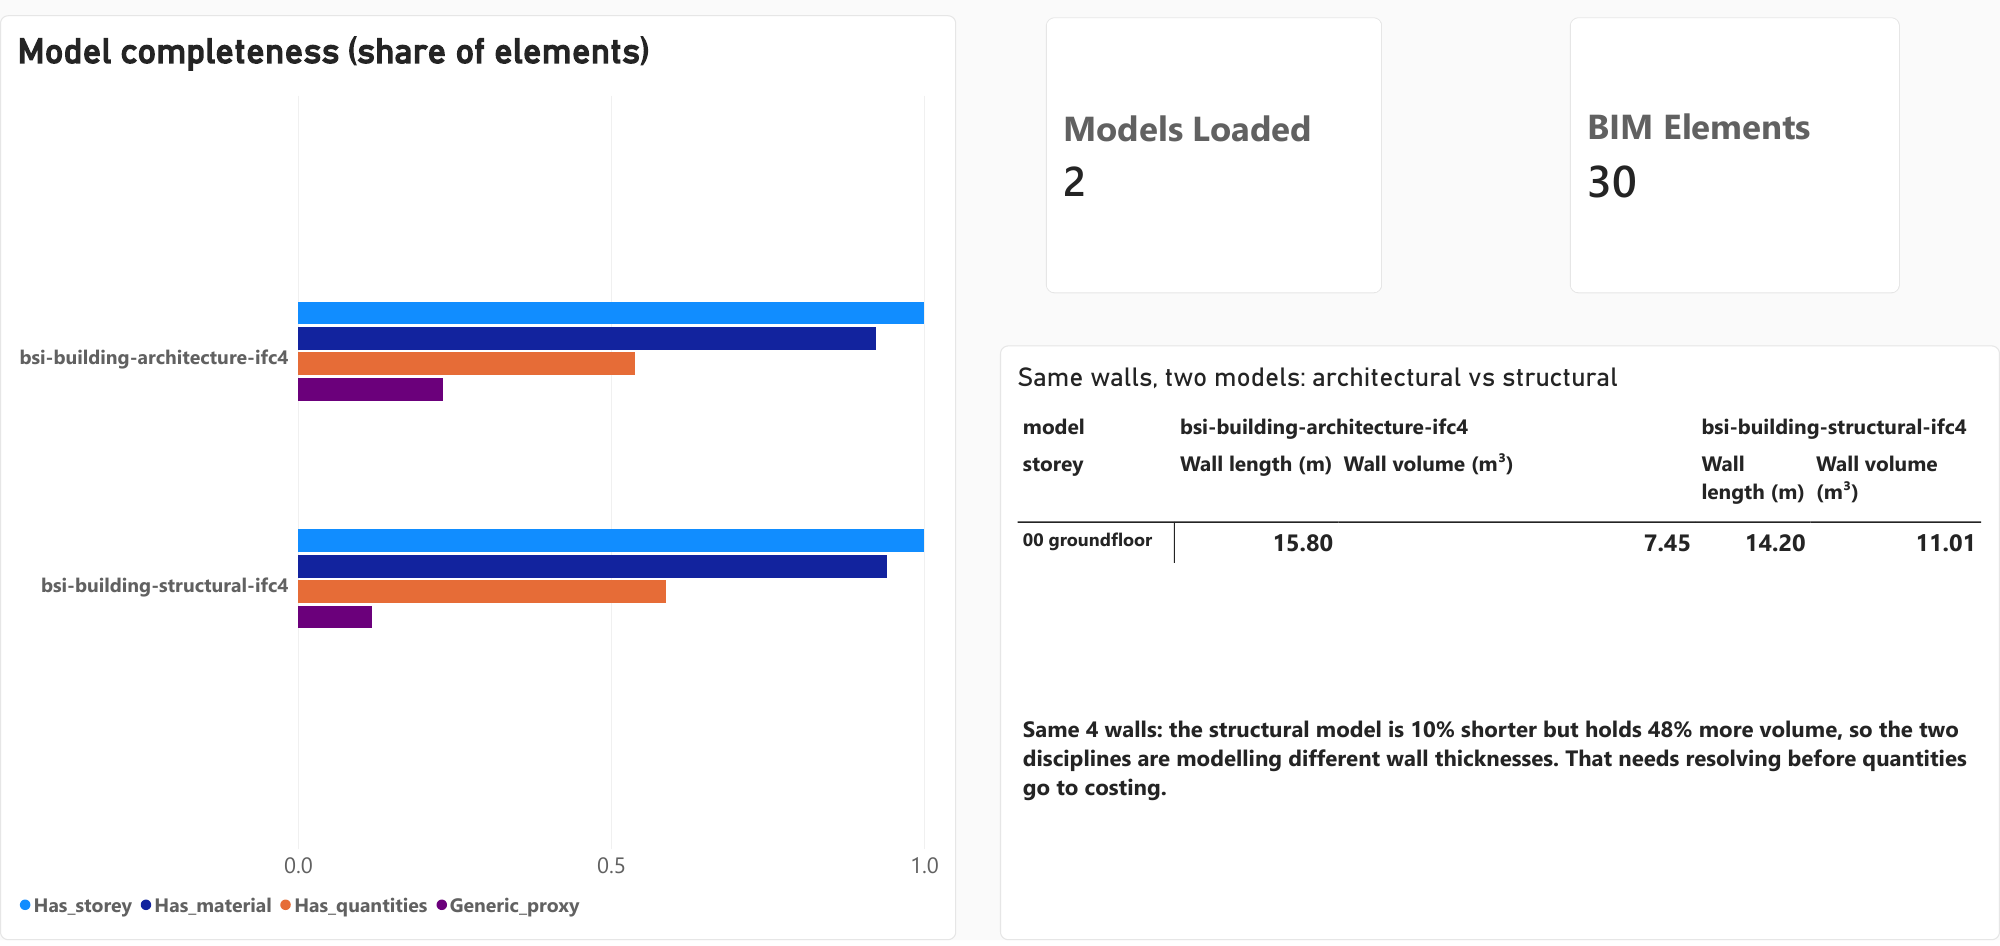
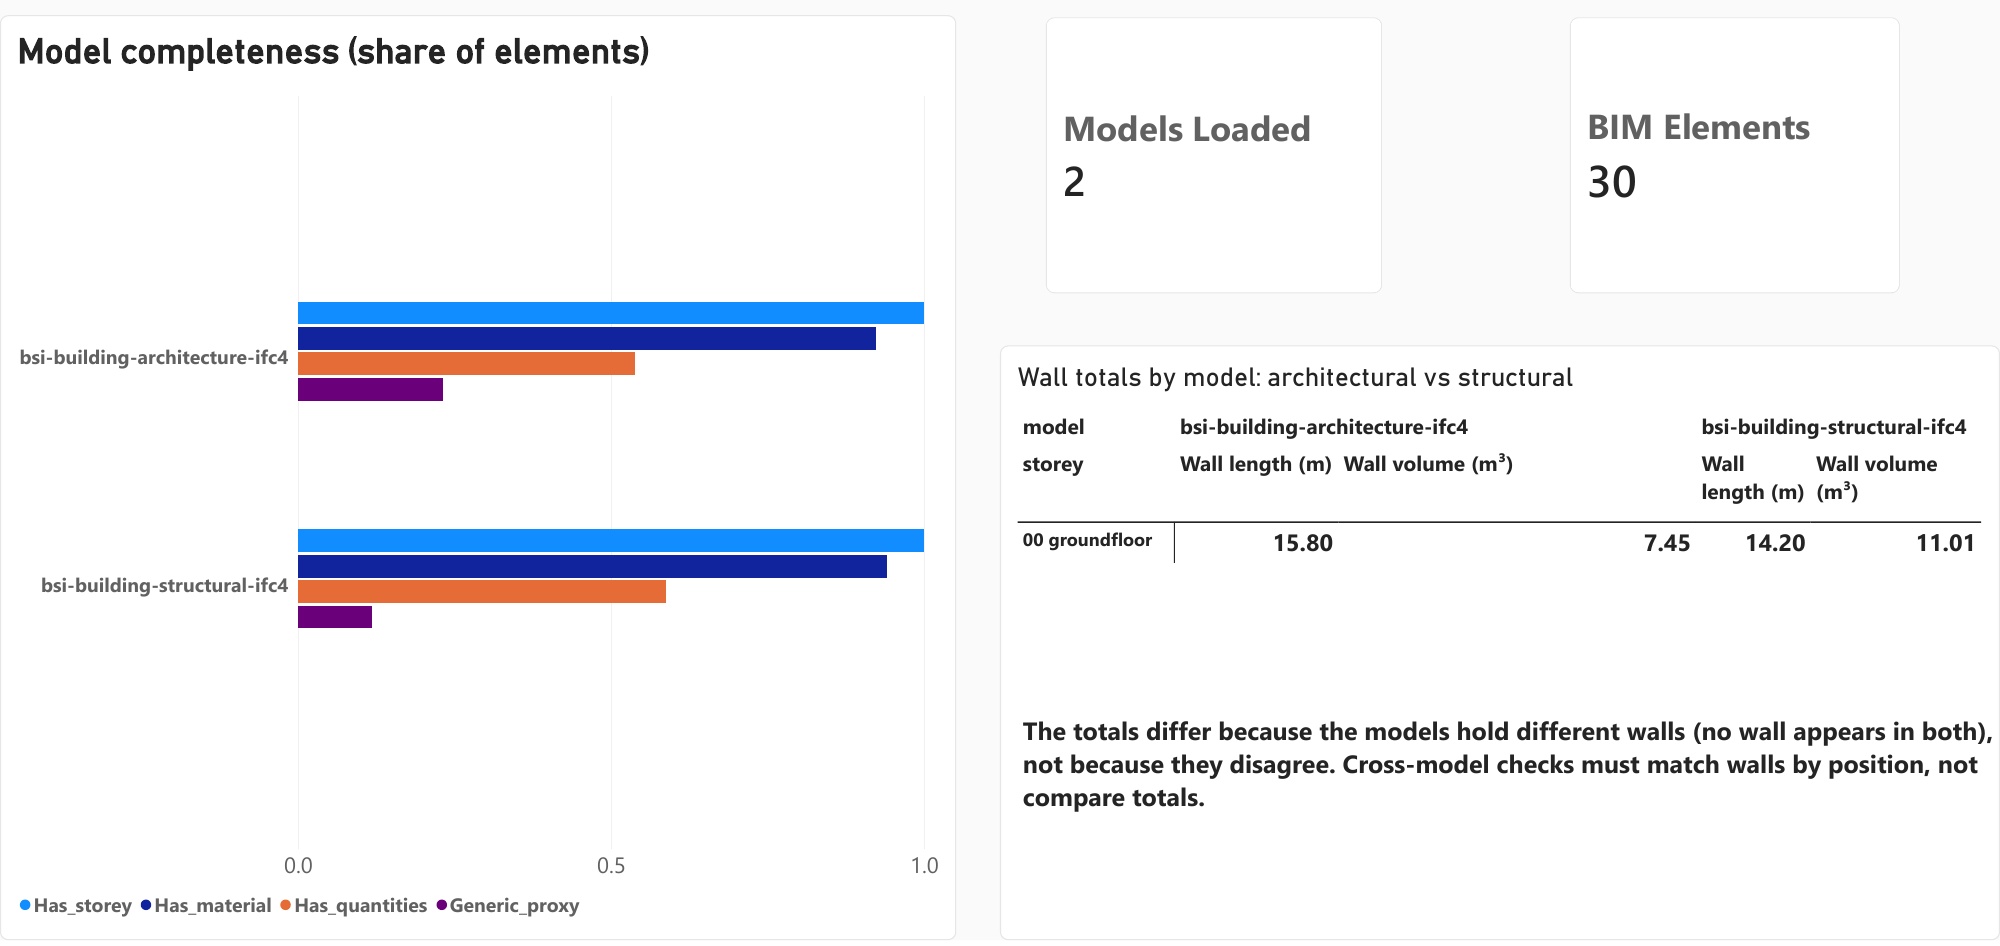
Technical report, corrected cross-model finding, final Power BI pages

Changed region(s): [[0.496, 0.7664, 0.992, 0.8584], [0.496, 0.3679, 0.806, 0.4292]]

diff --git a/src/ckb/ifc_extract.py b/src/ckb/ifc_extract.py
@@ -1,7 +1,7 @@
 """Pull building elements and their quantities out of an IFC (BIM) model into DuckDB.
 
 Tables:
-  ifc_elements(model, global_id, ifc_class, name, storey, type_name, material)
+  ifc_elements(model, global_id, ifc_class, name, storey, type_name, material, x, y, z, dir_x, dir_y)
   ifc_quantities(model, global_id, ifc_class, qto_set, quantity, value, unit_kind, unit)
 Views:
   ifc_summary - element counts and summed quantities (m, m2, m3) by storey and class
@@ -16,6 +16,7 @@ from pathlib import Path
 
 import ifcopenshell
 import ifcopenshell.util.element as eu
+import ifcopenshell.util.placement as up
 import ifcopenshell.util.unit as uu
 
 # IFC quantity class -> (value attribute, kind, IFC unit type for scaling, SI unit label)
@@ -29,7 +30,8 @@ QTY_ATTRS = {
 
 DDL = """
 CREATE TABLE IF NOT EXISTS ifc_elements (model VARCHAR, global_id VARCHAR, ifc_class VARCHAR, name VARCHAR,
-    storey VARCHAR, type_name VARCHAR, material VARCHAR);
+    storey VARCHAR, type_name VARCHAR, material VARCHAR,
+    x DOUBLE, y DOUBLE, z DOUBLE, dir_x DOUBLE, dir_y DOUBLE);   -- placement origin (m) and local x-axis
 CREATE TABLE IF NOT EXISTS ifc_quantities (model VARCHAR, global_id VARCHAR, ifc_class VARCHAR, qto_set VARCHAR,
     quantity VARCHAR, value DOUBLE, unit_kind VARCHAR, unit VARCHAR);
 CREATE OR REPLACE VIEW ifc_summary AS
@@ -78,8 +80,14 @@ def extract(ifc_path: Path) -> tuple[list[tuple], list[tuple]]:
             continue
         storey = eu.get_container(el)
         etype = eu.get_type(el)
+        x = y = z = dx = dy = None
+        if el.ObjectPlacement is not None:
+            m = up.get_local_placement(el.ObjectPlacement)
+            x, y, z = (round(float(v) * scale["LENGTHUNIT"], 3) for v in m[:3, 3])
+            dx, dy = (round(float(v), 3) for v in m[:2, 0])
         elements.append((model_name, el.GlobalId, el.is_a(), el.Name,
-                         storey.Name if storey else None, etype.Name if etype else None, _material(el)))
+                         storey.Name if storey else None, etype.Name if etype else None, _material(el),
+                         x, y, z, dx, dy))
         for rel in getattr(el, "IsDefinedBy", []) or []:
             if not rel.is_a("IfcRelDefinesByProperties"):
                 continue
@@ -96,14 +104,24 @@ def extract(ifc_path: Path) -> tuple[list[tuple], list[tuple]]:
     return elements, quantities
 
 
+def _upgrade(con) -> None:
+    """Older databases lack the placement columns: drop the derived IFC tables so they are rebuilt."""
+    cols = {r[0] for r in con.execute(
+        "SELECT column_name FROM information_schema.columns WHERE table_name = 'ifc_elements'").fetchall()}
+    if cols and "x" not in cols:
+        con.execute("DROP VIEW IF EXISTS ifc_summary; DROP VIEW IF EXISTS ifc_quality;"
+                    "DROP TABLE ifc_elements; DROP TABLE IF EXISTS ifc_quantities;")
+
+
 def load(con, ifc_path: Path) -> dict:
+    _upgrade(con)
     con.execute(DDL)
     elements, quantities = extract(ifc_path)
     model = ifc_path.stem
     con.execute("DELETE FROM ifc_elements WHERE model = ?", [model])
     con.execute("DELETE FROM ifc_quantities WHERE model = ?", [model])
     if elements:
-        con.executemany("INSERT INTO ifc_elements VALUES (?,?,?,?,?,?,?)", elements)
+        con.executemany("INSERT INTO ifc_elements VALUES (?,?,?,?,?,?,?,?,?,?,?,?)", elements)
     if quantities:
         con.executemany("INSERT INTO ifc_quantities VALUES (?,?,?,?,?,?,?,?)", quantities)
     return {"model": model, "elements": len(elements), "quantities": len(quantities)}

diff --git a/tests/test_ifc.py b/tests/test_ifc.py
@@ -28,6 +28,9 @@ def _tiny_model(path: Path) -> None:
             ifcopenshell.api.run("material.assign_material", f, products=[wall], material=concrete)
             qto = ifcopenshell.api.run("pset.add_qto", f, product=wall, name="Qto_WallBaseQuantities")
             ifcopenshell.api.run("pset.edit_qto", f, qto=qto, properties={"NetVolume": 2.5, "Length": 4.0})
+    import numpy as np
+    m = np.eye(4); m[0, 3], m[1, 3] = 2.5, 1.0             # given in metres; the file stores millimetres
+    ifcopenshell.api.run("geometry.edit_object_placement", f, product=wall, matrix=m)
     slab = ifcopenshell.api.run("root.create_entity", f, ifc_class="IfcSlab", name="S1")
     ifcopenshell.api.run("spatial.assign_container", f, relating_structure=ground, products=[slab])
     f.write(str(path))
@@ -49,6 +52,9 @@ def test_ifc_extract_counts_and_quantities(tmp_path):
     q = con.execute("SELECT elements, share_with_storey, share_with_material, share_proxy FROM ifc_quality").fetchone()
     assert q == (6, 1.0, round(5 / 6, 3), 0.0)
     assert con.execute("SELECT DISTINCT material FROM ifc_elements WHERE ifc_class='IfcWall'").fetchone()[0] == "Concrete"
+    # placements come back in metres (the file stores 2500 mm, 1000 mm)
+    placed = con.execute("SELECT x, y, dir_x, dir_y FROM ifc_elements WHERE x IS NOT NULL").fetchall()
+    assert placed == [(2.5, 1.0, 1.0, 0.0)]
     # reloading the same model replaces rather than duplicates
     load(con, model)
     assert con.execute("SELECT count(*) FROM ifc_elements").fetchone()[0] == 6

diff --git a/docs/REPORT.md b/docs/REPORT.md
@@ -1,0 +1,157 @@
+# Construction Knowledge Base: Technical Report
+
+**Author:** Tanima Garg · **Date:** November 2026 · **Code:** [github.com/tanima-pr/construction-knowledge-base](https://github.com/tanima-pr/construction-knowledge-base)
+
+## 1. Problem
+
+Much of what the construction sector knows sits in long PDF documents (codes, guides, research reports)
+and in BIM models, not in tables. NRC's industrialized construction roadmap (April 2025), prepared for the
+Construction Research Centre's Construction Sector Digitalization and Productivity program, lists capturing
+data and measuring impact among its focus areas and calls for a national construction productivity data
+framework. Before that kind of information can support analysis, someone has to know what documents and
+models are held, where they came from, whether they changed, who may see them, and how reliably they can be
+searched.
+
+This project builds a small, governed version of that: a search tool over two core construction documents
+and a loader for BIM models, with every step recorded and its quality measured.
+
+## 2. Data and governance
+
+| Source | Type | Pages / elements | Licence |
+|---|---|---|---|
+| National Building Code of Canada 2025 (16th ed.) | code | 1,693 pages | (c) NRC 2025, all rights reserved |
+| Roadmap to Transform the Canadian Construction Industry through IC | report | 97 pages | (c) 2025 NRC, UNB, UofA, Cast Consultancy, all rights reserved |
+| Roadmap summary | summary | 2 pages | no licence stated, treated as all rights reserved |
+| buildingSMART sample house, architectural model | IFC4 | 13 elements | (c) buildingSMART International, CC BY 4.0 |
+| buildingSMART sample house, structural model | IFC4 | 17 elements | (c) buildingSMART International, CC BY 4.0 |
+
+Every source is a row in a hand-maintained **source register** (`sources/register.csv`): issuer, type,
+edition, publication date, source URL, licence and access level (`public` or `internal`). Each build:
+
+- validates the register (missing required fields, invalid access levels and duplicate IDs mark a row `invalid`);
+- computes a **SHA-256 fingerprint** of each file, flags a replaced file as `changed` and re-ingests only that file;
+- keeps documents marked `internal` out of search results unless explicitly requested.
+
+Copyright terms were read from each file and recorded in the register. Because the PDFs are all rights
+reserved, they are not redistributed in the repository; the register says where to obtain each one.
+
+## 3. Method
+
+**Text extraction and cleaning.** Text is extracted page by page. Two problems appeared on the real documents:
+
+- The NBC prints a bilingual copyright line on every page. Left in, it would sit in every chunk and match
+  any query mentioning "Canada" or "National Research Council". Lines repeated on at least 20% of pages
+  (with page numbers normalised) are removed as running headers and footers.
+- Table-of-contents lines ("2.2.1 Productivity ........ 15") ranked highly for many questions while
+  containing no content. Lines with dot leaders are dropped, as are fragments under 25 letters or digits.
+
+19 NBC pages and 22 roadmap pages have no extractable text (mostly figures).
+
+**Chunking.** Each page is split on paragraph boundaries into chunks of about 900 characters. Chunks never
+cross a page, so every result cites exactly one page. The nearest code article heading (e.g. `9.8.4.1
+Dimensions for Risers`) is carried with each chunk. This produced 4,174 chunks; 1,758 distinct NBC sections
+were detected.
+
+**Search.** BM25 keyword ranking over chunk text, section heading and document title.
+
+**Answering and refusal.** Answers are the top passages with `[document p.N, section]` citations. BM25 scores
+are not comparable across questions, so a score cut-off cannot tell a weak match from no match. A
+**coverage check** asks whether any retrieved passage contains enough of the question's informative words,
+weighted by how rare each word is in the corpus; words the corpus never uses count as fully missing. Below
+a coverage of 0.45 the tool answers "Not found in the indexed documents." An optional language-model step
+only sees retrieved passages, and any model answer without a citation is discarded.
+
+## 4. Evaluation
+
+**Question set.** 30 questions written against the documents and checked page by page (`eval/questions.csv`):
+10 on the NBC, 9 on the roadmap, 3 on the summary, 3 that require choosing the right document among similar
+ones, and 5 that the documents do not answer (e.g. local zoning, wages, costs). Each answerable question
+records the page where the answer appears.
+
+**Results.**
+
+| Version | Right document first | Right document, top 5 | Right page, top 5 | MRR | Correct refusal | False refusal |
+|---|---|---|---|---|---|---|
+| Score cut-off only (baseline) | 88% | 100% | 80% | 0.93 | 0% | 0% |
+| + coverage check at 0.45 | 88% | 100% | 80% | 0.93 | **80%** | 8% |
+
+Document-level accuracy is inflated by the small number of documents; **right page in the top 5** is the
+meaningful retrieval measure.
+
+**Choosing the threshold.**
+
+| Coverage threshold | Correct refusal | False refusal |
+|---|---|---|
+| 0.30 | 40% | 4% |
+| 0.40 | 60% | 8% |
+| **0.45** | **80%** | **8%** |
+| 0.50 | 100% | 16% |
+| 0.60 | 100% | 32% |
+
+0.45 is a round value in the gap between the two groups of questions, not the single best point.
+
+![Power BI: refusal before and after the coverage check, threshold trade-off, and the questions where search missed the page](powerbi-page1.png)
+
+*Figure 1. Power BI report, page 1 (built from `exports/ckb_powerbi.xlsx`).*
+
+**Where it fails.**
+
+- *Page misses (5 of 25):* three land on a page that repeats the question's words without answering it (the
+  roadmap's executive summary, the two-page summary, and an interview-guide appendix); one is a paraphrase the
+  keywords cannot bridge ("words the code does not define" vs the code's "undefined terms"); one lands two
+  pages away (smoke alarms: p.941 instead of p.939).
+- *False refusals (2 of 25):* both paraphrases ("climb or descend" vs the code's "travel up or down").
+- *Missed refusal (1 of 5):* a cost-per-square-foot question shares enough words with the roadmap to pass.
+
+## 5. BIM models
+
+Two discipline models of the same buildingSMART sample house were loaded with IfcOpenShell.
+
+**Units.** Both models store lengths in millimetres but areas and volumes in m² and m³. All quantities are
+converted to SI using each model's declared units before storage. Summary columns each use one measure
+(wall run length, not slab thickness; surface area, not beam cross-section), so different measures are never
+added together.
+
+**Completeness.**
+
+| Model | Elements | With storey | With material | With quantities | Generic proxies |
+|---|---|---|---|---|---|
+| Architectural | 13 | 100% | 92% | 54% | 23% |
+| Structural | 17 | 100% | 94% | 59% | 12% |
+
+![Power BI: model completeness and wall totals by model](powerbi-page2.png)
+
+*Figure 2. Power BI report, page 2: model completeness (share of elements with a storey, a material and
+quantities, and the share that are generic proxies) and wall totals by model.*
+
+**Cross-model check.** Compared by class, the models appear to disagree on the ground-floor walls
+(15.8 m and 7.45 m³ architectural vs 14.2 m and 11.0 m³ structural), which reads as a 48% volume discrepancy.
+Comparing each wall's placement shows that **no wall appears in both models**: the architectural model holds
+the walls running one direction plus a 24 mm gypsum plumbing partition, and the structural model holds the
+walls running the other direction plus a 200 mm load-bearing inner wall. The models are complementary, and
+the house's walls total 30.0 m and 18.5 m³ across both.
+
+The lesson for cross-discipline quality checks is that elements must be matched by location or identifier,
+not by class totals; otherwise the check reports discrepancies that do not exist.
+
+## 6. Limitations
+
+- **Keyword search.** Paraphrased questions miss (one page miss and both false refusals), and pages that
+  repeat a question's words, such as summaries and appendices, can outrank the page that answers it.
+- **Threshold tuned on the evaluation set.** The 0.45 threshold was chosen using the same 30 questions it is
+  reported on. It should be confirmed on new questions before being relied on.
+- **Small corpus and question set.** Three documents and 30 questions show the method; they do not
+  establish performance on a larger collection.
+- **Tables and figures.** Values inside PDF tables extract with broken spacing, and figure-only pages carry no
+  text. Answers about tabulated values should be checked against the cited page.
+- **Access levels demonstrate the control; they are not a security boundary.**
+- **Sample BIM models.** The IFC files are small teaching models, not project models.
+
+## 7. Next steps
+
+1. Add meaning-based (embedding) search alongside BM25 and measure whether it recovers the paraphrase misses
+   without raising false refusals; down-weight summary and appendix pages when a full section also matches.
+2. Write a second, separate set of questions to confirm the refusal threshold.
+3. Add CMHC research on modular and offsite construction, and a later NBC edition alongside 2025, to test
+   edition tracking.
+4. Match BIM elements across models by location so genuine clashes and duplicates can be reported.

diff --git a/README.md b/README.md
@@ -57,7 +57,7 @@ src/ckb/ingest.py        PDF text extraction and page-aware chunking
 src/ckb/search.py        BM25 ranking with access-level filter
 src/ckb/answer.py        cited answers, refusal, LLM guardrail
 src/ckb/evaluate.py      retrieval metrics
-src/ckb/ifc_extract.py   IFC elements and quantities -> DuckDB (SI units, quality view)
+src/ckb/ifc_extract.py   IFC elements, placements and quantities -> DuckDB (SI units, quality view)
 src/ckb/pipeline.py      build + CSV exports
 tests/                   pytest suite (runs in GitHub Actions)
 ```
@@ -93,7 +93,9 @@ tuned on the same 30 questions, so it should be confirmed on new questions befor
 
 Remaining errors: the two false refusals are paraphrases ("climb or descend" vs the code's "travel up or
 down"; "words the code does not define" vs "undefined terms"), and one cost question still slips through.
-The same keyword limitation explains most page misses, so meaning-based (embedding) search is the next step.
+Of the five page misses, three land on summary or appendix pages that repeat the question's words, one is
+a paraphrase and one is two pages off. Meaning-based (embedding) search and down-weighting summary pages are
+the next steps. Full write-up: [docs/REPORT.md](docs/REPORT.md).
 
 ## Power BI report
 
@@ -101,7 +103,11 @@ The same keyword limitation explains most page misses, so meaning-based (embeddi
 
 - **Page 1, Governance and search quality:** sources catalogued, chunks indexed, page accuracy, refusal before
   and after the coverage check, the threshold trade-off, and the questions where search missed the page.
-- **Page 2, BIM model quality:** completeness by model and the architectural vs structural wall comparison.
+- **Page 2, BIM model quality:** completeness by model and the architectural vs structural wall totals.
+
+![Power BI page 1: governance and search quality](docs/powerbi-page1.png)
+
+![Power BI page 2: BIM model quality and wall totals by model](docs/powerbi-page2.png)
 
 ## BIM model results
 
@@ -119,9 +125,24 @@ beam cross-section), so different measures are never added together.
 | Architectural | 13 | 100% | 92% | 54% | 23% |
 | Structural | 17 | 100% | 94% | 59% | 12% |
 
-**Cross-model check.** Both models contain the same 4 ground-floor walls, but they disagree: 15.8 m and
-7.45 m3 in the architectural model vs 14.2 m and 11.0 m3 in the structural one. A difference like this is
-what a coordination review between disciplines would need to resolve before quantities are used for costing.
+**Cross-model check.** Compared by class, the two models seem to disagree about the ground-floor walls:
+15.8 m and 7.45 m3 (architectural) vs 14.2 m and 11.0 m3 (structural). Checking each wall's placement shows
+that comparison is wrong: **no wall appears in both models.** The architectural model holds the walls running
+one direction plus a 24 mm gypsum plumbing partition; the structural model holds the walls running the other
+direction plus a 200 mm load-bearing inner wall. The models are complementary, so the house's walls total
+30.0 m and 18.5 m3 across both. Cross-discipline checks need to match elements by location or ID, not by
+class totals, or they report discrepancies that do not exist.
+
+| Model | Wall | Position (m) | Direction | Length (m) | Width (m) | Volume (m3) |
+|---|---|---|---|---|---|---|
+| Architectural | outer, left | (3.1, 3.0) | y | 6.0 | 0.200 | 4.23 |
+| Architectural | outer, right back | (8.5, 9.0) | y | 4.2 | 0.200 | 1.79 |
+| Architectural | outer, right front | (7.1, 4.8) | y | 1.8 | 0.200 | 1.27 |
+| Architectural | plumbing partition | (8.4, 8.8) | y | 3.8 | 0.024 | 0.16 |
+| Structural | outer, front | (3.0, 3.0) | x | 3.8 | 0.200 | 2.93 |
+| Structural | outer, back | (3.2, 8.9) | x | 5.2 | 0.200 | 4.29 |
+| Structural | outer, front right | (8.4, 4.9) | x | 1.3 | 0.200 | 0.75 |
+| Structural | inner, load-bearing | (7.1, 4.9) | x | 3.9 | 0.200 | 3.04 |
 
 ## Limitations
 
